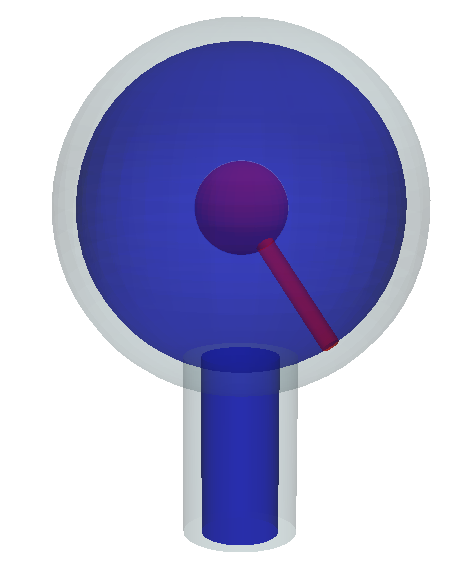
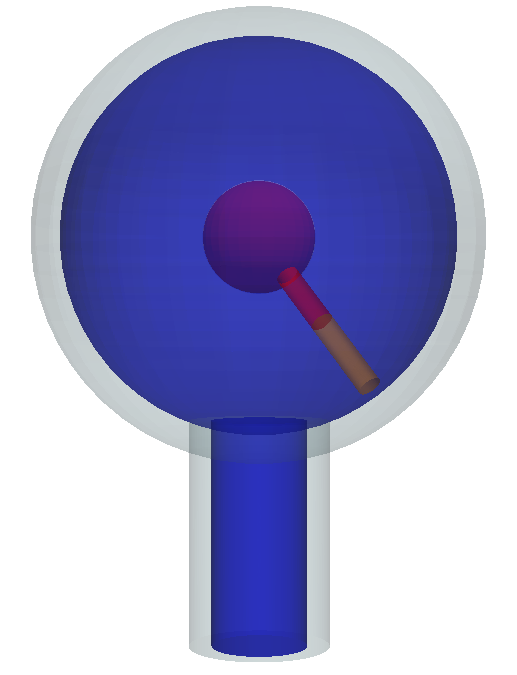
update README

diff --git a/README.md b/README.md
@@ -33,8 +33,10 @@ python generateMesh.py surfaces --output-dir surfaces
 **Generate and tag the FEniCSx mesh:**
 
 ```bash
-python generateMesh.py mesh --stl-dir surfaces --output-dir mesh
+python generateMesh.py mesh --stl-dir surfaces --name meshname
 ```
+This writes the mesh to `meshname/meshname.xdmf`.
+
 (Add `--separate-interfaces` to tag the pial membrane and ventricular walls (ependyma) with distinct IDs instead of a unified interface tag).
 
 Note: It is also possible to generate the mesh from the surface STLs with fTetWild directly from command line as
@@ -56,12 +58,16 @@ This will read the base mesh and sequentially generate `Ref1`, `Ref2`, etc., in 
 After generating and refining the mesh, the directory structure will look similar to this:
 ```plaintext
 .
-├── mesh/
-│   ├── mesh.xdmf
-│   └── mesh.h5
-├── meshRef1/
-│   ├── meshRef1.xdmf
-│   └── meshRef1.h5
+├── meshes
+│   ├── idealized
+│   │   ├── config.yml
+│   │   ├── idealized.h5
+│   │   └── idealized.xdmf
+│   ├── idealizedRef1
+│   │   ├── config.yml
+│   │   ├── idealizedRef1.h5
+│   │   └── idealizedRef1.xdmf
+│   :
 :
 ```
 